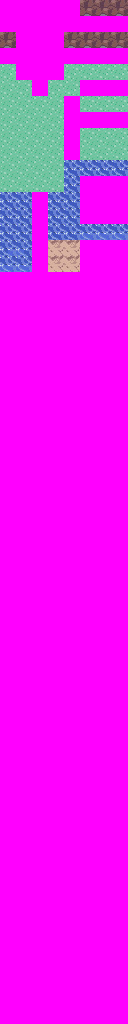
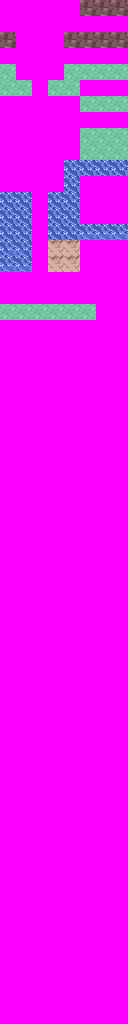
[PBL] porytiles sanctuary flowers

Changed region(s): [[0.0, 0.0938, 0.5, 0.1875], [0.0, 0.2812, 0.75, 0.3125]]

diff --git a/src/tileset_anims.c b/src/tileset_anims.c
@@ -1274,3 +1274,42 @@ void InitTilesetAnim_Common(void)
     sPrimaryTilesetAnimCounterMax = 256;
     sPrimaryTilesetAnimCallback = TilesetAnim_Common;
 }
+
+const u16 gTilesetAnims_Sanctuary_Flower_Frame0[] = INCBIN_U16("data/tilesets/secondary/sanctuary/anim/flower/0.4bpp");
+const u16 gTilesetAnims_Sanctuary_Flower_Frame1[] = INCBIN_U16("data/tilesets/secondary/sanctuary/anim/flower/1.4bpp");
+const u16 gTilesetAnims_Sanctuary_Flower_Frame2[] = INCBIN_U16("data/tilesets/secondary/sanctuary/anim/flower/2.4bpp");
+const u16 gTilesetAnims_Sanctuary_Flower_Frame3[] = INCBIN_U16("data/tilesets/secondary/sanctuary/anim/flower/3.4bpp");
+const u16 gTilesetAnims_Sanctuary_Flower_Frame4[] = INCBIN_U16("data/tilesets/secondary/sanctuary/anim/flower/4.4bpp");
+const u16 gTilesetAnims_Sanctuary_Flower_Frame5[] = INCBIN_U16("data/tilesets/secondary/sanctuary/anim/flower/5.4bpp");
+const u16 gTilesetAnims_Sanctuary_Flower_Frame6[] = INCBIN_U16("data/tilesets/secondary/sanctuary/anim/flower/6.4bpp");
+const u16 gTilesetAnims_Sanctuary_Flower_Frame7[] = INCBIN_U16("data/tilesets/secondary/sanctuary/anim/flower/7.4bpp");
+
+const u16 *const gTilesetAnims_Sanctuary_Flower[] = {
+    gTilesetAnims_Sanctuary_Flower_Frame0,
+    gTilesetAnims_Sanctuary_Flower_Frame1,
+    gTilesetAnims_Sanctuary_Flower_Frame2,
+    gTilesetAnims_Sanctuary_Flower_Frame3,
+    gTilesetAnims_Sanctuary_Flower_Frame4,
+    gTilesetAnims_Sanctuary_Flower_Frame5,
+    gTilesetAnims_Sanctuary_Flower_Frame6,
+    gTilesetAnims_Sanctuary_Flower_Frame7
+};
+
+static void QueueAnimTiles_Sanctuary_Flower(u16 timer)
+{
+    u16 i = timer % ARRAY_COUNT(gTilesetAnims_Sanctuary_Flower);
+    AppendTilesetAnimToBuffer(gTilesetAnims_Sanctuary_Flower[i], (u16 *)(BG_VRAM + TILE_OFFSET_4BPP(NUM_TILES_IN_PRIMARY + 0)), 24 * TILE_SIZE_4BPP);
+}
+
+static void TilesetAnim_Sanctuary(u16 timer)
+{
+    if (timer % 16 == 0)
+        QueueAnimTiles_Sanctuary_Flower(timer / 16);
+}
+
+void InitTilesetAnim_Sanctuary(void)
+{
+    sSecondaryTilesetAnimCounter = 0;
+    sSecondaryTilesetAnimCounterMax = sPrimaryTilesetAnimCounterMax;
+    sSecondaryTilesetAnimCallback = TilesetAnim_Sanctuary;
+}

diff --git a/src/data/tilesets/headers.h b/src/data/tilesets/headers.h
@@ -883,7 +883,7 @@ const struct Tileset gTileset_Sanctuary =
     .palettes = gTilesetPalettes_Sanctuary,
     .metatiles = gMetatiles_Sanctuary,
     .metatileAttributes = gMetatileAttributes_Sanctuary,
-    .callback = NULL,
+    .callback = InitTilesetAnim_Sanctuary,
 };
 
 const struct Tileset gTileset_Common =

diff --git a/include/tileset_anims.h b/include/tileset_anims.h
@@ -33,5 +33,6 @@ void InitTilesetAnim_BattleDome(void);
 void InitTilesetAnim_BattlePyramid(void);
 
 void InitTilesetAnim_Common(void);
+void InitTilesetAnim_Sanctuary(void);
 
 #endif // GUARD_TILESET_ANIMS_H
